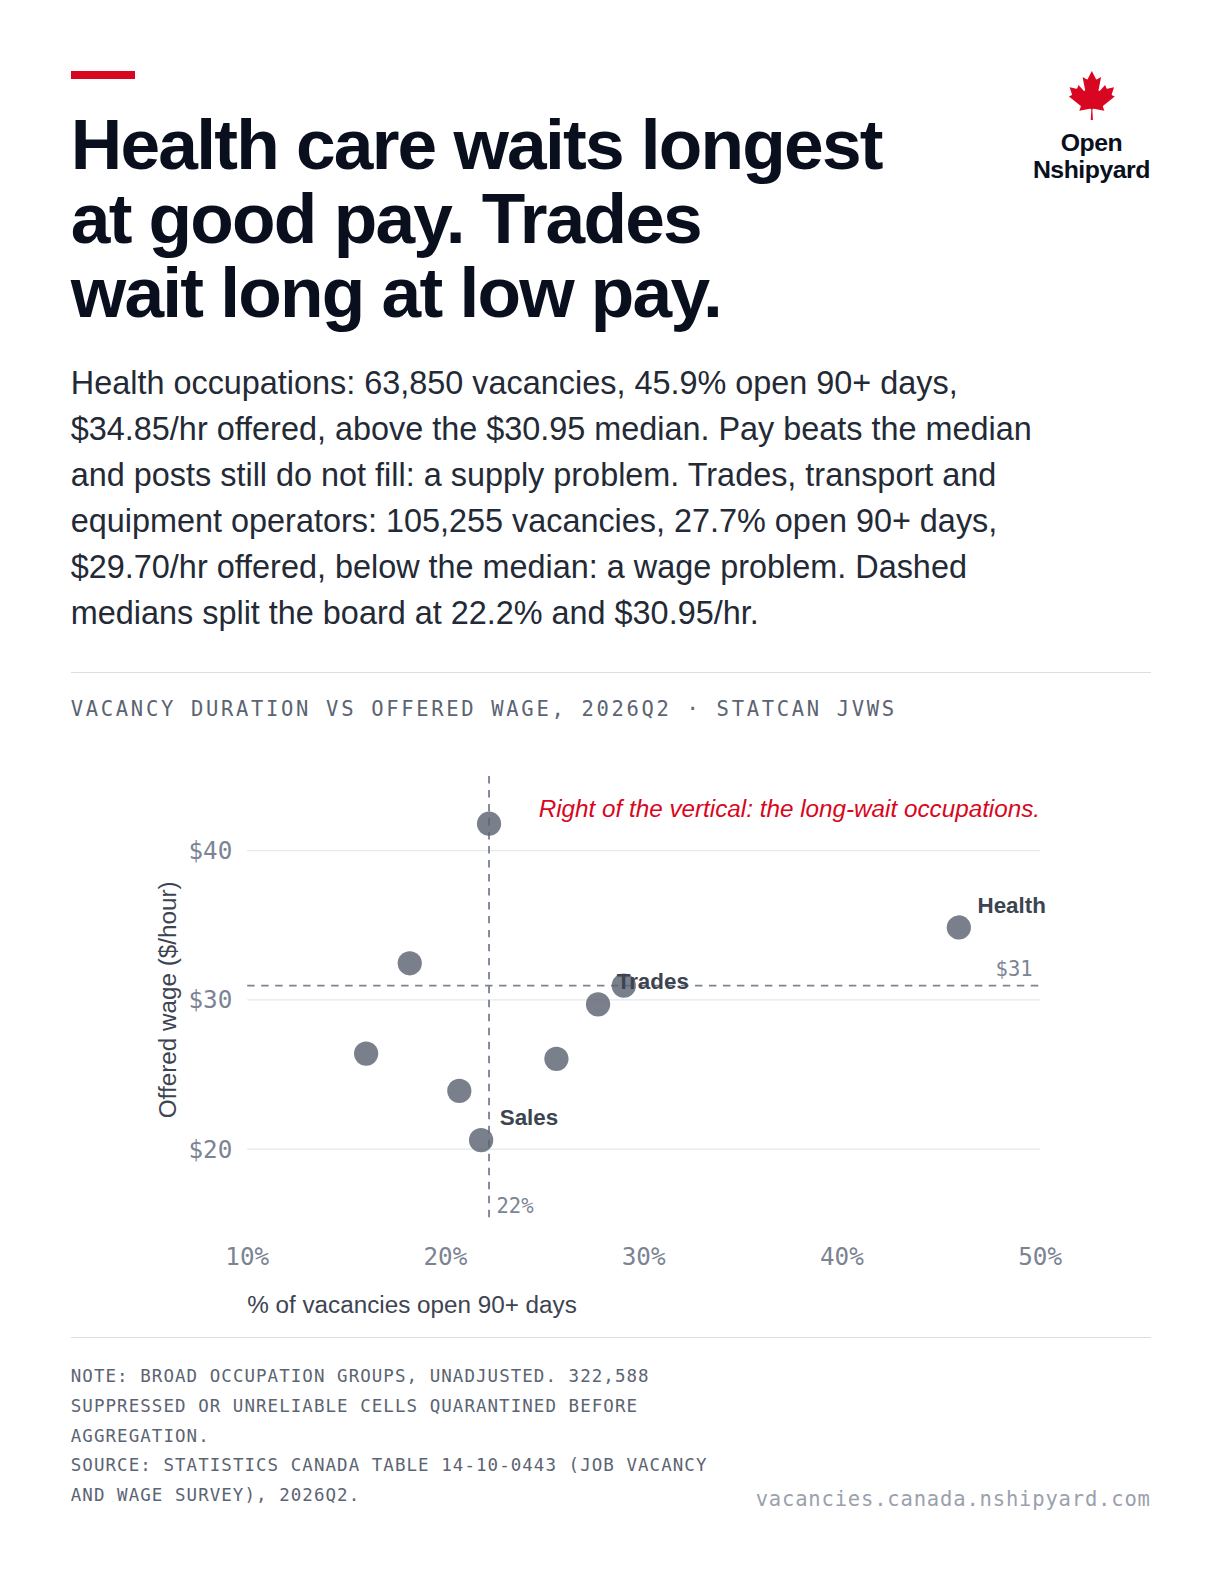
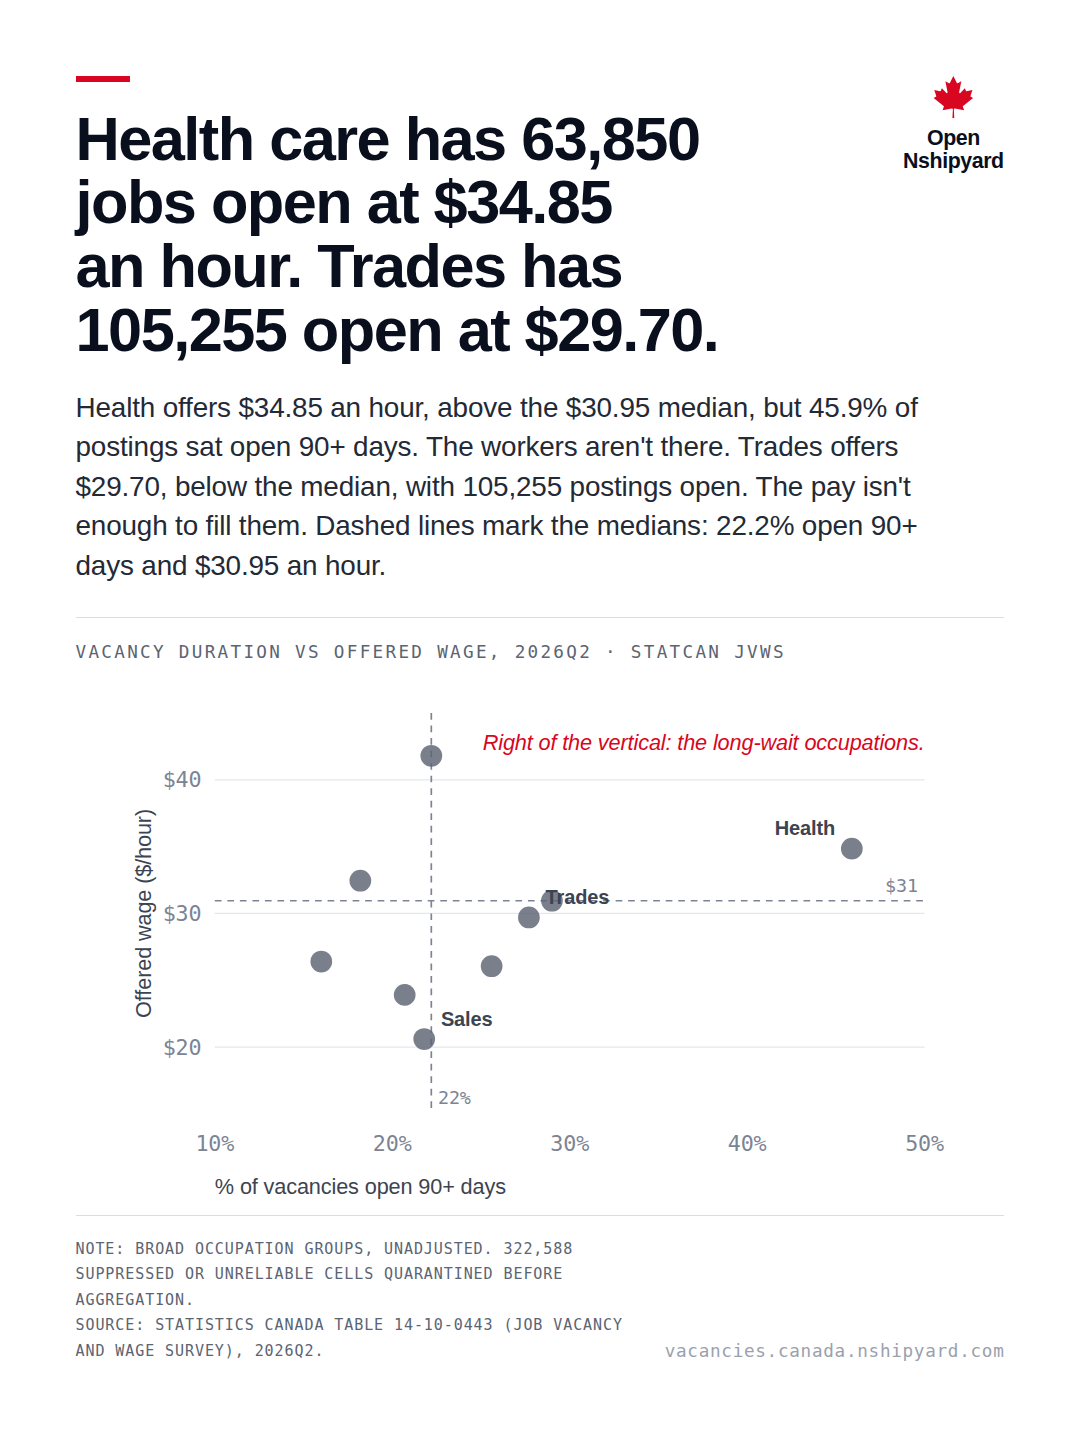
vacancies-wage-quadrants card: direct headline and deck, plain language

diff --git a/src/charts/chart-data.ts b/src/charts/chart-data.ts
@@ -1282,8 +1282,8 @@ export const CHARTS: ChartDef[] = [
   {
       slug: "vacancies-wage-quadrants",
       kicker: "Vacancy duration vs offered wage, 2026Q2 · StatCan JVWS",
-      headline: "Health jobs go unfilled longest despite above-median pay. Trades jobs go unfilled because pay is below median.",
-      deck: "Health occupations: 63,850 vacancies, 45.9% open 90+ days, $34.85/hr offered, above the $30.95 median. Pay beats the median and posts still do not fill: a supply problem. Trades, transport and equipment operators: 105,255 vacancies, 27.7% open 90+ days, $29.70/hr offered, below the median: a wage problem. Dashed medians split the board at 22.2% and $30.95/hr.",
+      headline: "Health care has 63,850 jobs open at $34.85 an hour. Trades has 105,255 open at $29.70.",
+      deck: "Health offers $34.85 an hour, above the $30.95 median, but 45.9% of postings sat open 90+ days. The workers aren't there. Trades offers $29.70, below the median, with 105,255 postings open. The pay isn't enough to fill them. Dashed lines mark the medians: 22.2% open 90+ days and $30.95 an hour.",
       note: "Broad occupation groups, unadjusted. 322,588 suppressed or unreliable cells quarantined before aggregation.",
       source: "Statistics Canada table 14-10-0443 (Job Vacancy and Wage Survey), 2026Q2.",
       shareText:
